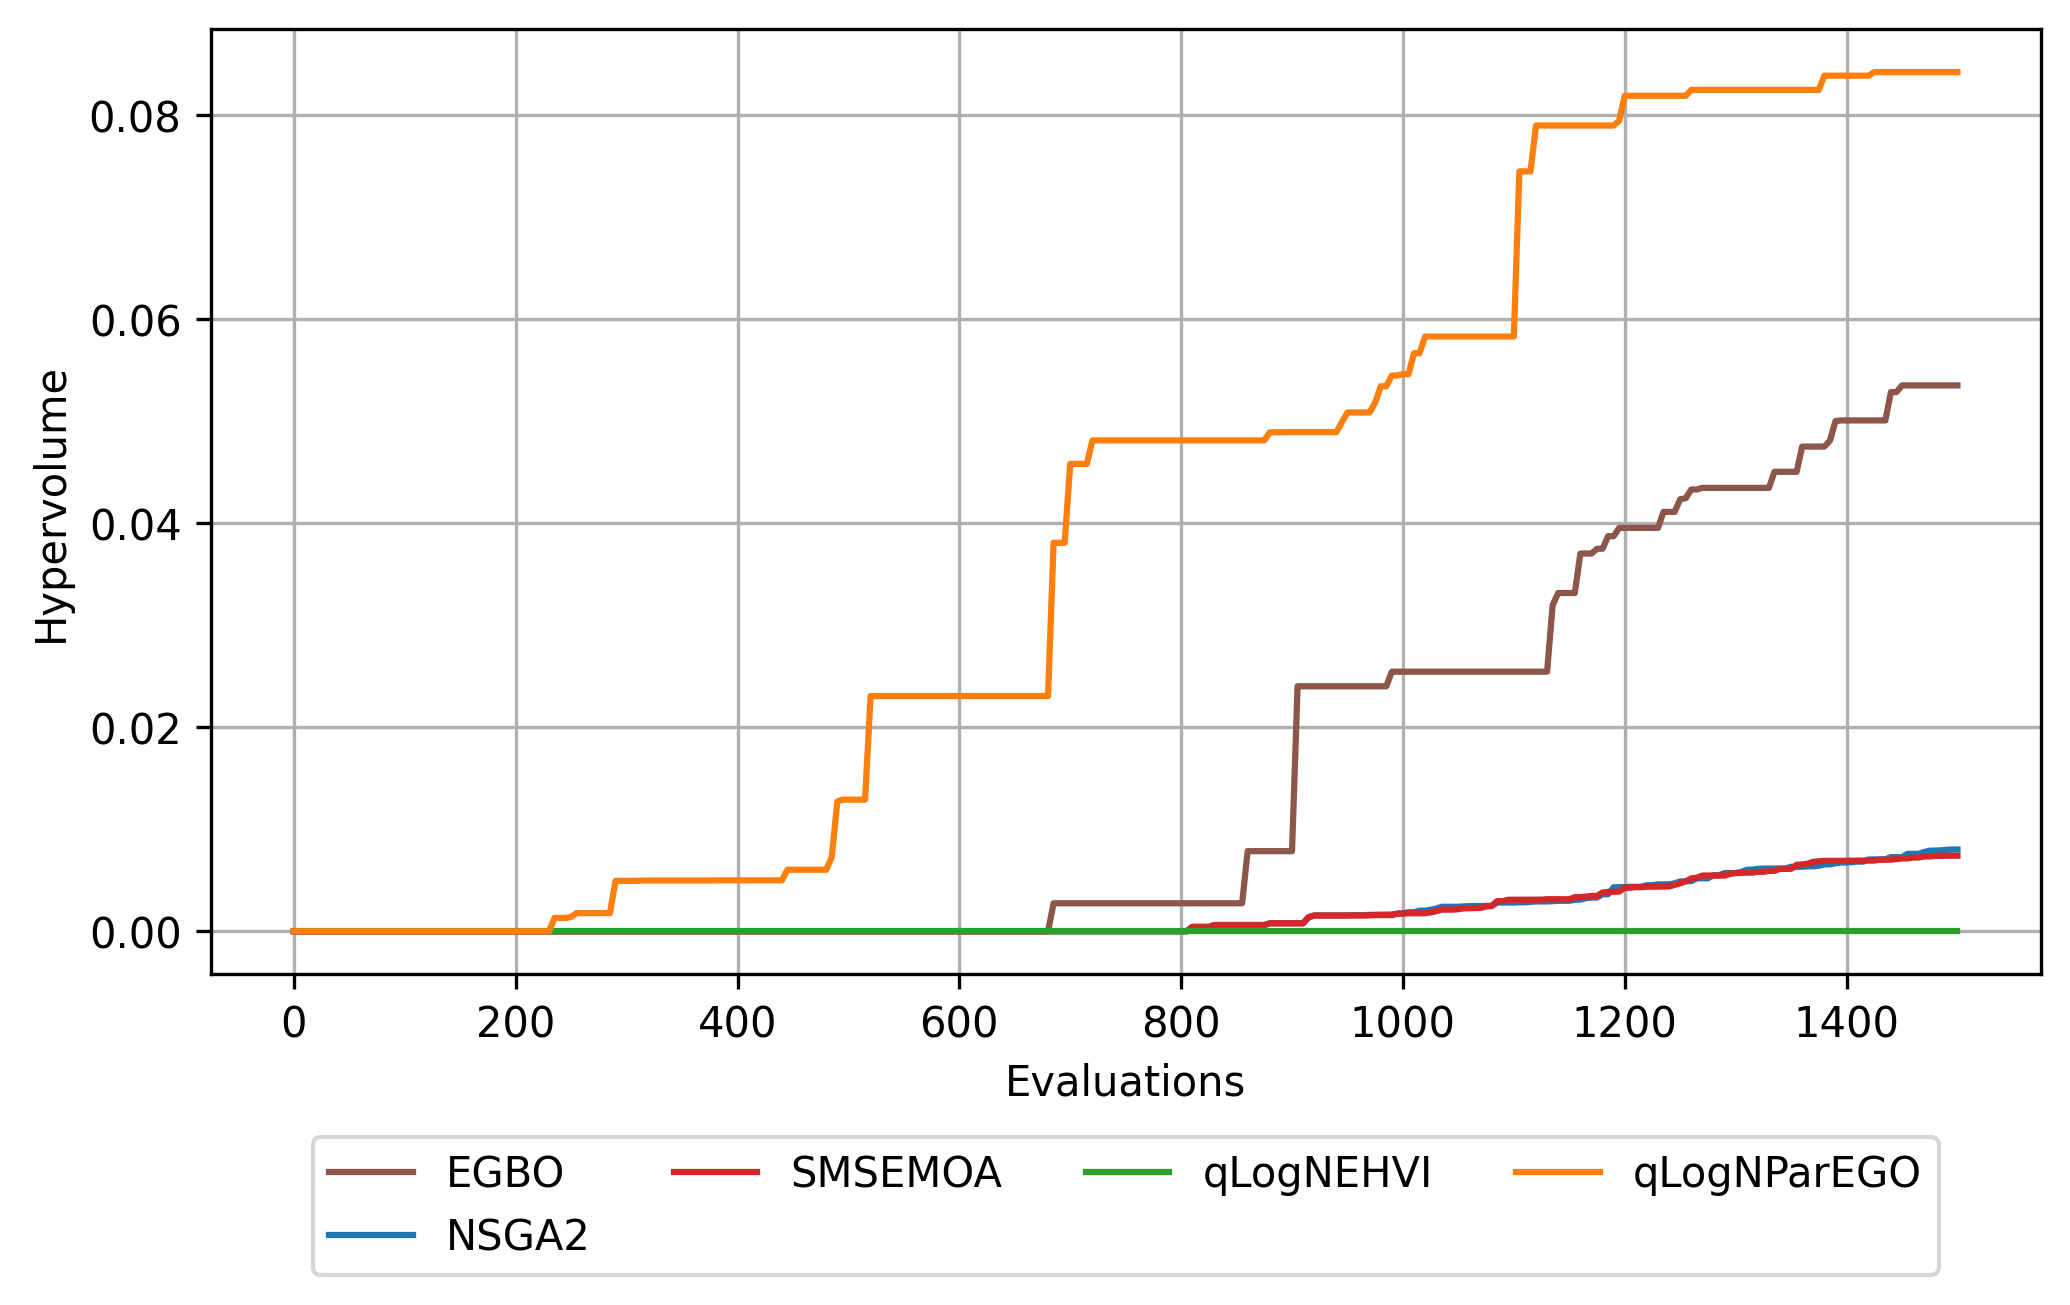
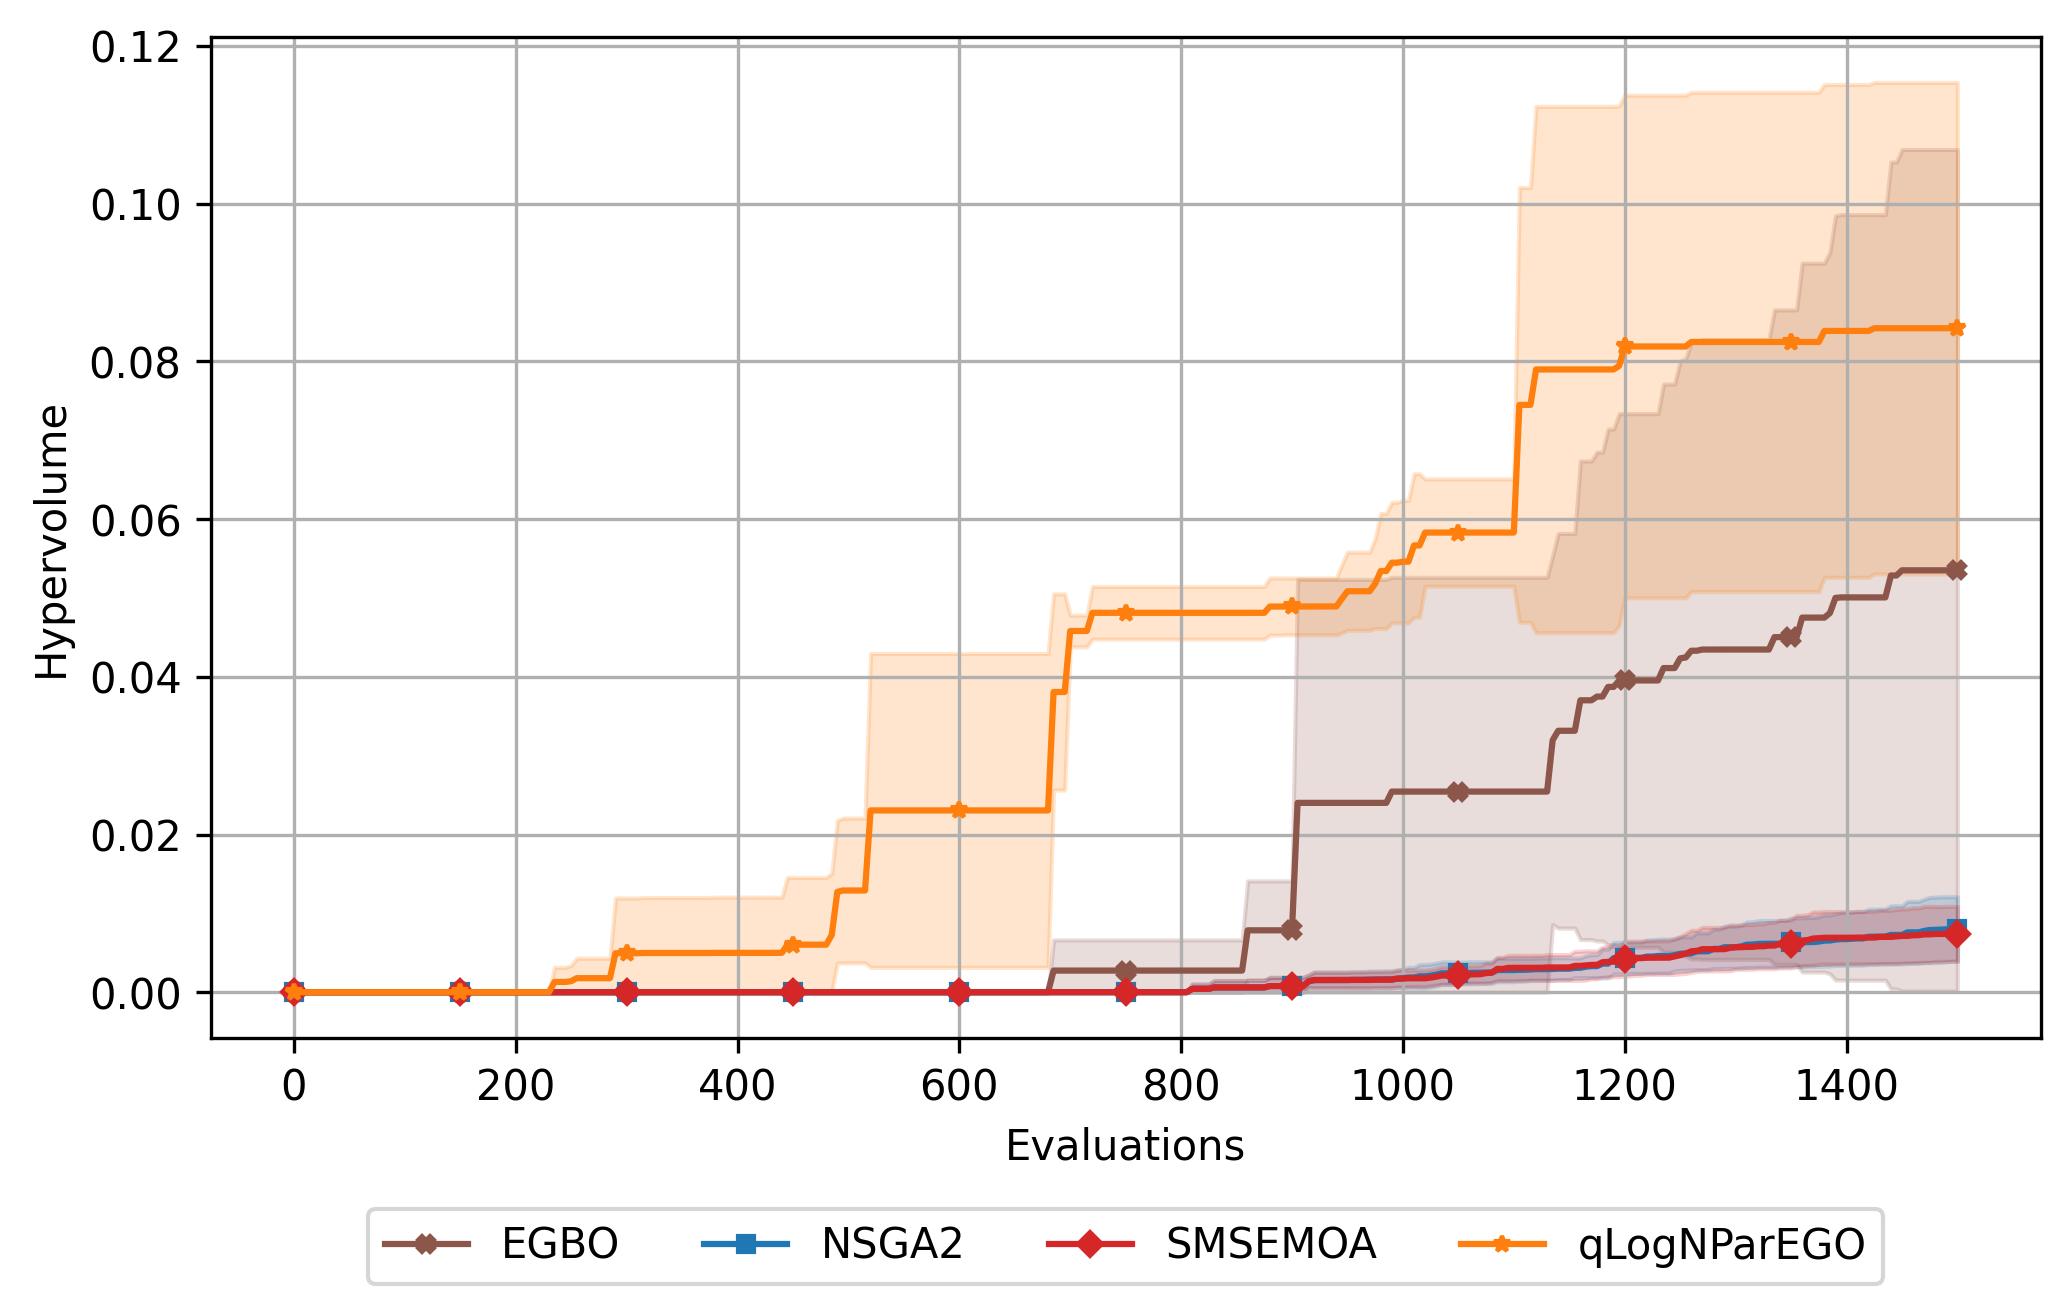
Update plot visualization style

diff --git a/suite/experiments/Mazda/analysis_HV.py b/suite/experiments/Mazda/analysis_HV.py
@@ -225,11 +225,11 @@ ALGO_CSVS = {
         BASE_DIR / "SMS_EMOA" / "Mazda_SMSEMOA_seed333.csv",
     ],
 
-    "qLogNEHVI": [
-        BASE_DIR / "SBO_EHVI" / "Mazda_qLogNEHVI_seed331.csv",
-        BASE_DIR / "SBO_EHVI" / "Mazda_qLogNEHVI_seed332.csv",
-        BASE_DIR / "SBO_EHVI" / "Mazda_qLogNEHVI_seed333.csv",
-    ],
+    # "qLogNEHVI": [
+    #     BASE_DIR / "SBO_EHVI" / "Mazda_qLogNEHVI_seed331.csv",
+    #     BASE_DIR / "SBO_EHVI" / "Mazda_qLogNEHVI_seed332.csv",
+    #     BASE_DIR / "SBO_EHVI" / "Mazda_qLogNEHVI_seed333.csv",
+    # ],
 
     "qLogNParEGO": [
         BASE_DIR / "qLogNParEGO" / "Mazda_qLogNParEGO_seed331.csv",
@@ -264,6 +264,17 @@ color_map = {
     "MESMO": "#17becf",         
 }
 
+marker_map = {
+    "RandomSearch": "o",
+    "NSGA2": "s",
+    "MOEAD": "P",
+    "SMSEMOA": "D",
+    "qLogNEHVI": "^",
+    "qLogNParEGO": "*",
+    "MESMO": "v",
+    "EGBO": "X",
+}
+
 
 for algo_name, paths in ALGO_CSVS.items():
 
@@ -292,9 +303,17 @@ for algo_name, (hv_mean, hv_std) in stats.items():
 
     color = color_map.get(algo_name, None)
 
-    plt.plot(x_plot, hv_mean_plot, label=algo_name, color=color)
-    # dont plt std because of limited number of the random seeds
-    # plt.fill_between(x_plot, hv_lower_plot, hv_upper_plot, alpha=0.20, color=color)
+    # plt.plot(x_plot, hv_mean_plot, label=algo_name, color=color)
+    plt.plot(
+    x_plot,
+    hv_mean_plot,
+    label=algo_name,
+    color=color,
+    marker=marker_map.get(algo_name, "o"),
+    markersize=4,
+    markevery=30,  # one mark every 30 points 
+    )
+    plt.fill_between(x_plot, hv_lower_plot, hv_upper_plot, alpha=0.20, color=color)
 
 plt.xlabel("Evaluations")
 plt.ylabel("Hypervolume")

diff --git a/suite/experiments/TurbofanArch/analysis_algo_time.py b/suite/experiments/TurbofanArch/analysis_algo_time.py
@@ -323,6 +323,17 @@ color_map = {
     "MESMO": "#17becf",         
 }
 
+marker_map = {
+    "RandomSearch": "o",
+    "NSGA2": "s",
+    "MOEAD": "P",
+    "SMSEMOA": "D",
+    "qLogNEHVI": "^",
+    "qLogNParEGO": "*",
+    "MESMO": "v",
+    "EGBO": "X",
+}
+
 for algo_name, (time_mean, time_std) in stats.items():
     T = len(time_mean)
     x = np.arange(start_row, start_row + T * sample_step, sample_step)
@@ -335,11 +346,20 @@ for algo_name, (time_mean, time_std) in stats.items():
 
     color = color_map.get(algo_name, None)
 
-    plt.plot(x, time_mean_plot, label=f"{algo_name}", color=color)
-    # dont plot std because of limited 3 seeds
-    # plt.fill_between(x, lower, upper, alpha=0.20, color=color)
+    # plt.plot(x, time_mean_plot, label=f"{algo_name}", color=color)
+    plt.plot(
+    x,
+    time_mean_plot,
+    label=algo_name,
+    color=color,
+    marker=marker_map.get(algo_name, "o"),
+    markersize=4,
+    markevery=10,  # one mark every 10 points 
+    )
+    plt.fill_between(x, lower, upper, alpha=0.20, color=color)
 
 plt.yscale("log")
+plt.ylim(bottom=1e-3)
 plt.xlabel("Evaluations")
 plt.ylabel("Algorithm Runtime (s)")
 # plt.title("Algorithm Time Comparison")

diff --git a/suite/experiments/LayeredBeam/analysis_algo_time.py b/suite/experiments/LayeredBeam/analysis_algo_time.py
@@ -288,6 +288,19 @@ color_map = {
     "MESMO": "#17becf",         
 }
 
+
+marker_map = {
+    "RandomSearch": "o",
+    "NSGA2": "s",
+    "MOEAD": "P",
+    "SMSEMOA": "D",
+    "qLogNEHVI": "^",
+    "qLogNParEGO": "*",
+    "MESMO": "v",
+    "EGBO": "X",
+}
+
+
 for algo_name, (time_mean, time_std) in stats.items():
     T = len(time_mean)
     x = np.arange(start_row, start_row + T * sample_step, sample_step)
@@ -300,9 +313,17 @@ for algo_name, (time_mean, time_std) in stats.items():
 
     color = color_map.get(algo_name, None)
 
-    plt.plot(x, time_mean_plot, label=f"{algo_name}", color=color)
-    # dont plot std given the limited number of random seeds
-    # plt.fill_between(x, lower, upper, alpha=0.20, color=color)
+    # plt.plot(x, time_mean_plot, label=f"{algo_name}", color=color)
+    plt.plot(
+    x,
+    time_mean_plot,
+    label=algo_name,
+    color=color,
+    marker=marker_map.get(algo_name, "o"),
+    markersize=4,
+    markevery=10,  # one mark every 10 points 
+    )
+    plt.fill_between(x, lower, upper, alpha=0.20, color=color)
 
 plt.yscale("log")
 plt.xlabel("Evaluations")

diff --git a/suite/experiments/TurbofanArch/analysis_HV.py b/suite/experiments/TurbofanArch/analysis_HV.py
@@ -298,6 +298,17 @@ color_map = {
     "MESMO": "#17becf",         
 }
 
+marker_map = {
+    "RandomSearch": "o",
+    "NSGA2": "s",
+    "MOEAD": "P",
+    "SMSEMOA": "D",
+    "qLogNEHVI": "^",
+    "qLogNParEGO": "*",
+    "MESMO": "v",
+    "EGBO": "X",
+}
+
 
 for algo_name, paths in ALGO_CSVS.items():
     missing = [p for p in paths if not p.exists()]
@@ -321,9 +332,18 @@ for algo_name, (hv_mean, hv_std) in stats.items():
 
     color = color_map.get(algo_name, None)
 
-    plt.plot(x_plot, hv_mean_plot, label=algo_name, color=color)
-    # dont plot std because of limited 3 seeds
-    # plt.fill_between(x_plot, hv_lower_plot, hv_upper_plot, alpha=0.20, color=color)
+    # plt.plot(x_plot, hv_mean_plot, label=algo_name, color=color)
+    plt.plot(
+    x_plot,
+    hv_mean_plot,
+    label=algo_name,
+    color=color,
+    marker=marker_map.get(algo_name, "o"),
+    markersize=4,
+    markevery=10,  # one mark every 10 points 
+    )
+
+    plt.fill_between(x_plot, hv_lower_plot, hv_upper_plot, alpha=0.20, color=color)
 
 
 plt.xlabel("Evaluations")

diff --git a/suite/experiments/LayeredBeam/analysis_HV.py b/suite/experiments/LayeredBeam/analysis_HV.py
@@ -189,6 +189,18 @@ color_map = {
     "MESMO": "#17becf",         
 }
 
+marker_map = {
+    "RandomSearch": "o",
+    "NSGA2": "s",
+    "MOEAD": "P",
+    "SMSEMOA": "D",
+    "qLogNEHVI": "^",
+    "qLogNParEGO": "*",
+    "MESMO": "v",
+    "EGBO": "X",
+}
+
+
 for algo_name, paths in ALGO_CSVS.items():
 
     missing = [p for p in paths if not p.exists()]
@@ -216,9 +228,18 @@ for algo_name, (hv_mean, hv_std) in stats.items():
 
     color = color_map.get(algo_name, None)
 
-    plt.plot(x_plot, hv_mean_plot, label=algo_name, color=color)
-    # dont plot std given the limited number of random seeds
-    # plt.fill_between(x_plot, hv_lower_plot, hv_upper_plot, alpha=0.20, color=color)
+    # plt.plot(x_plot, hv_mean_plot, label=algo_name, color=color)
+    plt.plot(
+    x_plot,
+    hv_mean_plot,
+    label=algo_name,
+    color=color,
+    marker=marker_map.get(algo_name, "o"),
+    markersize=4,
+    markevery=10,  # one mark every 10 points 
+    )
+
+    plt.fill_between(x_plot, hv_lower_plot, hv_upper_plot, alpha=0.20, color=color)
 
 
 

diff --git a/suite/experiments/Mazda/analysis_algo_time.py b/suite/experiments/Mazda/analysis_algo_time.py
@@ -287,6 +287,17 @@ color_map = {
     "MESMO": "#17becf",         
 }
 
+marker_map = {
+    "RandomSearch": "o",
+    "NSGA2": "s",
+    "MOEAD": "P",
+    "SMSEMOA": "D",
+    "qLogNEHVI": "^",
+    "qLogNParEGO": "*",
+    "MESMO": "v",
+    "EGBO": "X",
+}
+
 for algo_name, (time_mean, time_std) in stats.items():
     T = len(time_mean)
     x = np.arange(start_row, start_row + T * sample_step, sample_step)
@@ -299,8 +310,17 @@ for algo_name, (time_mean, time_std) in stats.items():
     
     color = color_map.get(algo_name, None)
 
-    plt.plot(x, time_mean_plot, label=f"{algo_name}", color=color)
-    # plt.fill_between(x, lower, upper, alpha=0.20, color=color)
+    # plt.plot(x, time_mean_plot, label=f"{algo_name}", color=color)
+    plt.plot(
+    x,
+    time_mean_plot,
+    label=algo_name,
+    color=color,
+    marker=marker_map.get(algo_name, "o"),
+    markersize=4,
+    markevery=30,  # one mark every 30 points 
+    )
+    plt.fill_between(x, lower, upper, alpha=0.20, color=color)
 
 plt.yscale("log")
 plt.xlabel("Evaluations")
